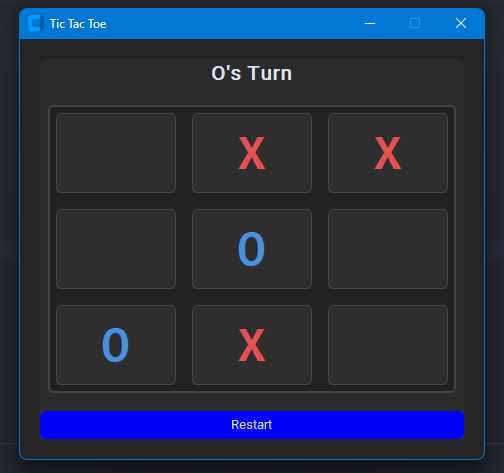
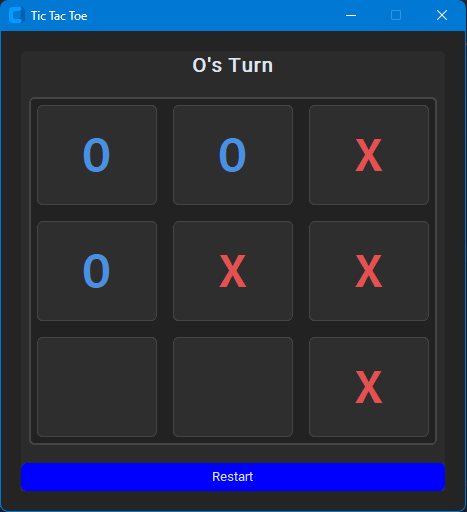
Update GUI design

diff --git a/main.py b/main.py
@@ -53,7 +53,7 @@ for row in range(3):
             text="",
             font=("Consolas",50,"bold"),
             width=120,
-            height=80,
+            height=100,
             fg_color="#2e2e2e",
             hover_color="#333333",
             border_color="#444444",
